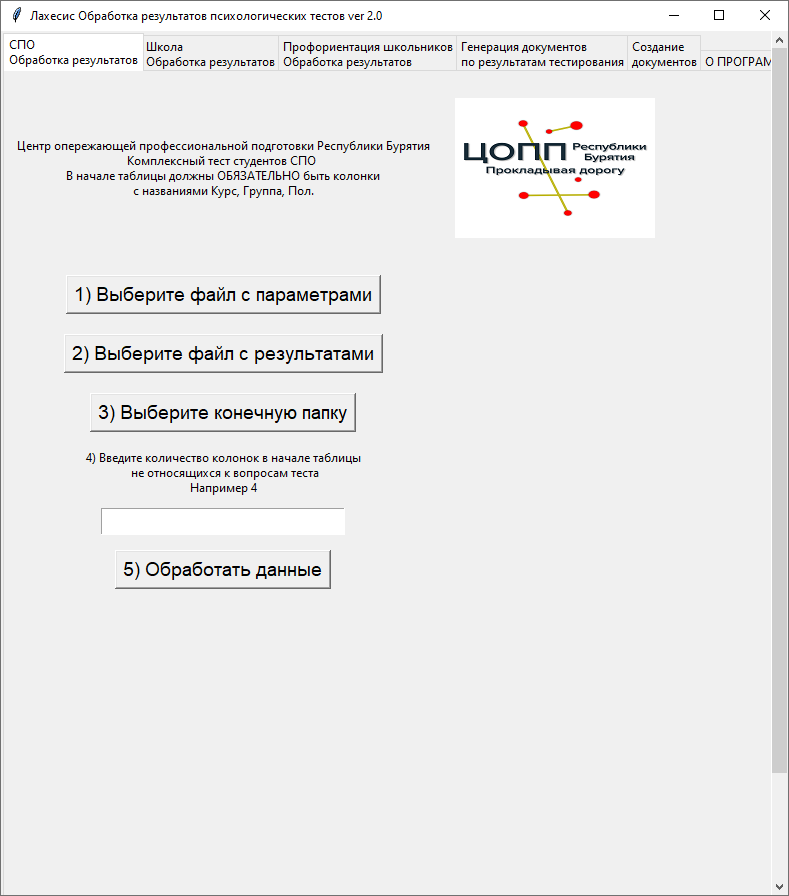
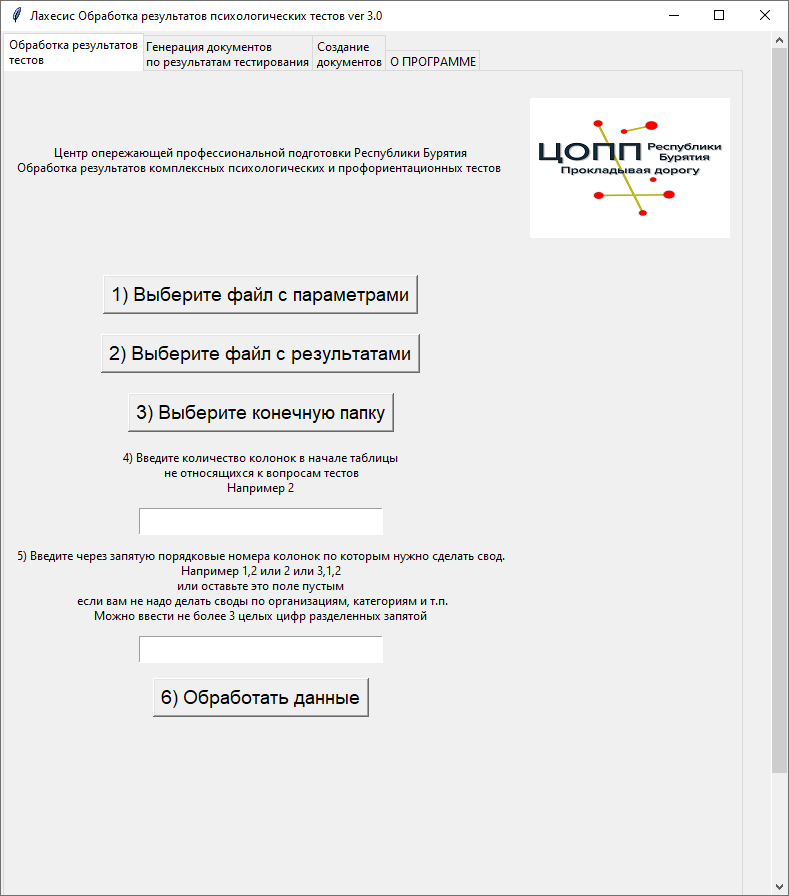
Лахесис 3.0

diff --git a/lachesis/lachesis.html b/lachesis/lachesis.html
@@ -25,7 +25,7 @@
           <h2>Назначение программы</h2>
             <p>Программа предназначена для автоматической обработки результатов психологических и профориентационных тестов, полученных с помощью Яндекс-форм (можно использовать и другие сервисы опросов) в формате Excel (xlsx).</p>
             <p> <a href="../files/lachesis/Презентация о программе.pptx" download target="_blank" >Презентация о программе</a></p>
-            <p> <a href="../files/lachesis/Реализованные тесты.docx" download target="_blank" >Список реализованных тестов</a></p>
+            <p> <a href="../files/lachesis/Реализованные тесты.xlsx" download target="_blank" >Список реализованных тестов</a></p>
 
              <p><b>Программа внесена в реестр отечественного программного обеспечения</b></p>
           <a href="https://fips.ru/EGD/7c4db338-ad0b-478c-b734-1a11d5660117" download target="_blank" >Ссылка на свидетельство Роспатента</a><br>
@@ -35,10 +35,10 @@
         </section>
         <section>
           <h2>Для кого эта программа?</h2>
-          <p>Эта программа может использоваться педагогами-психологами школ и СПО, специалистами по профориентационной работе.</p>
+          <p>Эта программа может использоваться педагогами-психологами школ, СПО, ВУЗ, специалистами по профориентационной работе, психологами иных организаций.</p>
           <h2>Что может программа</h2>
           <p><strong>Обрабатывать следующие психологические и профориентационные тесты:</strong></p>
-          <p><span style="text-decoration: underline;">Тесты на тревожность и депрессию для старшеклассников и студентов СПО:</span></p>
+          <p><span style="text-decoration: underline;">Тесты на тревожность и депрессию:</span></p>
           <ul>
           <li>Индекс общего самочувствия ВОЗ 1999</li>
           <li>Шкала тревожности Кондаша</li>
@@ -46,7 +46,7 @@
           <li>Шкала безнадежности Бека</li>
           <li>Шкала депрессии Цунга</li>
           </ul>
-          <p><span style="text-decoration: underline;">Тесты на девиантное поведение для старшеклассников и студентов СПО:</span></p>
+          <p><span style="text-decoration: underline;">Тесты на девиантное поведение:</span></p>
           <ul>
           <li>Склонность к девиантному поведению Э.В. Леус</li>
           <li>Шкала нарушенных потребностей. Остракизм (подростки, молодежь), Е.Э. Бойкина </li>
@@ -54,13 +54,32 @@
           <li>Выявление буллинг-структуры Е.Г. Норкина</li>
           </ul>
 
-          <p><span style="text-decoration: underline;">Тесты на лидерство и эмоциональный интеллект&nbsp;для старшеклассников и студентов СПО:</span></p>
+          <p><span style="text-decoration: underline;">Тесты на профессиональное и эмоциональное выгорание:</span></p>
+          <ul>
+          <li>Профессиональное выгорание педагогов методика Н. Е. Водопьяновой на основе модели К. Маслач и С. Джексон;</li>
+          <li>Диагностика уровня эмоционального выгорания В.В.Бойко (в модиф. Е.Ильина);</li>
+          <li>Диагностика уровня эмоционального выгорания В.В.Бойко;</li>
+          <li>Опросник психологического выгорания А.А. Рукавишников;</li>
+          <li>Опросник профессионального выгорания Маслач, MBI;</li>
+          <li>Оценка профессионального выгорания (BAT) краткая версия адаптация А.Д. Демкин;</li>
+          <li>Экспресс-оценка выгорания (В. Каппони, Т. Новак)</li>
+          </ul>
+
+          <p><span style="text-decoration: underline;">Тесты на адаптацию:</span></p>
+          <ul>
+          <li><span>Опросник Самочувствие, Активность, Настроение В.А. Доскин М.П. Мирошников;</span></li>
+          <li><span>Методика диагностики самооценки психических состояний Г. Айзенка;</span></li>
+          <li><span>Шкала социально-психологической адаптированности (К.Роджерс, Р.Даймонд). Адаптация Т. В. Снегиревой;</span></li>
+          <li><span>Экспресс-диагностика уровня адаптации первокурсников О.А. Гончарова;</span></li>
+          </ul>
+
+          <p><span style="text-decoration: underline;">Тесты на лидерство и эмоциональный интеллект:</span></p>
           <ul>
           <li><span>Эмоциональный интеллект Д.В. Люсин</span></li>
           <li><span>Уровень самооценки С.В. Ковалев</span></li>
-          <li><span>Коммуникативные и организаторские склонности&raquo; В.В. Синявский, В.А. Федорошин КОС-1</span></li>
+          <li><span>Коммуникативные и организаторские склонности В.В. Синявский, В.А. Федорошин КОС-1</span></li>
           </ul>
-          <p><span style="text-decoration: underline;">Профориентационные тесты для старшеклассников:</span></p>
+          <p><span style="text-decoration: underline;">Профориентационные тесты:</span></p>
           <ul>
           <li>Карта интересов Голомшток в редакции А.А. Азбель (144 вопроса,24 сферы).</li>
           <li>Профессиональная идентичность А.А. Азбель.</li>
@@ -78,27 +97,24 @@
           <h2>Преимущества</h2>
           <ul>
           <li>Бесплатно. Все что вам нужно это аккаунт на Яндекс почте.</li>
-          <li>Простота. Самое трудоемкое это сделать Яндекс Форму, после чего вам останется скачать результаты в виде таблицы Excel(xlsx) и обработать результаты одной кнопкой.</li>
-          <li>Стабильность. Яндекс Формы работают на серверах Яндекса, а это значит, что они будут работать практически всегда.</li>
-          <li>Нет трат на техническое сопровождение т.е. трат на хостинги, доменные имена, разработку и обработку тестов. Все что нужно это доступ в интернет у тестируемых.</li>
+          <li>Простота. Самое трудоемкое это сделать Яндекс Форму с выбранными тестами.</li>
           <li>Без проблем работает на мобильных телефонах. Не нужно думать, где взять компьютеры для тестирования.</li>
           <li>Массовость. Можно проводить одновременные тестирования для большого количества человек.</li>
           <li>Организовать, провести и обработать результаты теста может один человек. При этом от него не будет требоваться каких-то специальных знаний.</li>
-          <li>Не нужно заниматься предварительной регистрацией. Чтобы пройти тест не нужно нигде регистрироваться. Пользователь получил ссылку на тест, прошел тест на этом его взаимодействие с Яндекс Формами заканчивается.</li>
-          <li>Простота организации тестирования. Вы можете сделать 10 копий созданного теста и разослать 10 ссылок на эти тесты для разных школ, техникумов после чего получить 10 таблиц с результатами для каждой школы, техникума. Не нужно будет объяснять каждому тестируемому куда заходить и что выбирать, нужно будет просто нажать на ссылку и пройти тест.</li>
-          <li>Можно организовать тестирование без передачи персональных данных.</li>
+          <li>Чтобы пройти тест, не нужно нигде регистрироваться. Человек получил ссылку на тест после чего прошел тест.</li>
+          <li>Можно провести без передачи персональных данных.</li>
           <li>Автоматическое создание на бланках вашей организации документов с результатами тестирования.</li>
-          <li>Ранжирование результатов, тестируемых по степени выраженности склонностей, состояний.</li>
-          <li>Групповая статистика в разрезе курсов, групп, номеров классов, классов, полов.</li>
+          <li>Ранжирование результатов, тестируемых по степени выраженности склонностей.</li>
+          <li>Групповая статистика в разрезе выбранных категорий (до 3 категорий).</li>
           <li>Программа работает в отечественных ОС.</li>
           <li>Программа внесена в реестр отечественного ПО.</li>
 </ul>
           <h2>Возможности</h2>
             <ul>
               <li><a href="descr_feature_lachesis.html#all_result">Результаты каждого тестируемого с отображением численного показателя и уровня шкалы соответствующего теста.</a> </li>
-              <li><a href="descr_feature_lachesis.html#alert_value">Создание списка с тестируемыми у которых было найдено хотя бы одно тяжелое состояние (при тестировании на тревожность и депрессию).</a></li>
-              <li><a href="descr_feature_lachesis.html#risk_value">Создание списка с тестируемыми у которых было найдено минимум 2 предтяжелых состояния (при тестировании на тревожность и депрессию).</a></li>
-              <li><a href="descr_feature_lachesis.html#generate_svod">Подсчет количества прошедших тестирование по группам, номерам классов.</a></li>
+              <li><a href="descr_feature_lachesis.html#alert_value">Создание списка с тестируемыми у которых было найдено хотя бы одно тяжелое состояние (при тестировании на тревожность и депрессию, адаптацию, психологическое состояние, остракизм).</a></li>
+              <li><a href="descr_feature_lachesis.html#risk_value">Создание списка с тестируемыми у которых было найдено минимум 2 предтяжелых состояния (при тестировании на тревожность и депрессию, адаптацию, психологическое состояние, остракизм).</a></li>
+              <li><a href="descr_feature_lachesis.html#generate_svod">Подсчет количества прошедших тестирование по выбранным категориям (до 3).</a></li>
               <li><a href="descr_feature_lachesis.html#test_result">Подробные результаты каждого теста по отдельности с указанием результатов субшкал (при наличии).</a></li>
               <li><a href="descr_feature_lachesis.html#answer_test">Создание списка с ответами тестируемых на каждый тест для проверки правильности подсчета программой результатов.</a></li>
 
@@ -110,10 +126,10 @@
 
 
 
-              <li><a href="descr_feature_lachesis.html#calc_average_base">Подсчет среднего значения показателя и уровня шкалы теста в разрезе группы, класса, курса, номера класса.</a></li>
-              <li><a href="descr_feature_lachesis.html#calc_average_adv">Подсчет среднего значения показателя и уровня шкалы теста в разрезе группы, класса, курса, номера класса по полам.</a></li>
-              <li><a href="descr_feature_lachesis.html#calc_count_base">Подсчет количества тестируемых по уровням шкалы теста в разрезе группы, класса, курса, номера класса.</a></li>
-              <li><a href="descr_feature_lachesis.html#calc_count_adv">Подсчет количества тестируемых по уровням шкалы теста в разрезе группы, класса, курса, номера класса по полам.</a></li>
+              <li><a href="descr_feature_lachesis.html#calc_average_base">Подсчет среднего значения показателя и уровня шкалы теста в разрезе выбранных категорий(до 3).</a></li>
+              <li><a href="descr_feature_lachesis.html#calc_average_adv">Подсчет среднего значения показателя и уровня шкалы теста в разрезе выбранных категорий(до 3).</a></li>
+              <li><a href="descr_feature_lachesis.html#calc_count_base">Подсчет количества тестируемых по уровням шкалы теста в разрезе выбранных категорий(до 3).</a></li>
+              <li><a href="descr_feature_lachesis.html#calc_count_adv">Подсчет количества тестируемых по уровням шкалы теста в разрезе выбранных категорий(до 3).</a></li>
             </ul>
         </section>
         <section>
@@ -133,15 +149,12 @@
             <p>4) При необходимости регулярного тестирования производится копирование формы (при этом новая форма создается без старых ответов) и шаги 2,3 повторяются. </p>
             <H3>Опросная форма должна соответствовать нескольким правилам.</H3>
             <p><strong>Правило 1.</strong></p>
-            <p>При тестировании студентов СПО в начале формы обязательно должны быть колонки с названиями: <strong>Курс,Группа,Пол.</strong></p>
-            <p>При тестировании школьников старших классов в начале формы обязательно должны быть колонки с названиями: <strong>Номер класса, Буква класса, Пол.</strong></p>
+            <p>Анкетная часть должна находится в начале формы.</p>
+            <p>Анкетная часть должны быть только одна.</p>
+            <p>Анкетная часть &mdash; это вопросы, определяющие принадлежность тестируемого той или иной категории вида Муниципалитет, Группа, Класс, Курс, Специальность, Отдел, Пол, ФИО и т.п.</p>
             <p><strong>Правило 2.</strong></p>
-            <p>Вы можете проводить тестирование как с вводом ФИО тестируемого, так и анонимное тестирование.</p>
-            <p>Для анонимного тестирования вы можете не использовать идентифицирующий вопрос или использовать вопрос с типом <em>Целое Число</em> (для исключения возможности ввода нецензурного текста) чтобы тестируемый мог впоследствии найти свой результат.</p>
-            <p><strong>Правило 3.</strong></p>
-            <p>Вопросы относящиеся к одному тесту должны идти подряд.</p>
-            <p>Количество, текст вопросов и ответов должно совпадать с эталоном (указанным в папке Материалы для внедрения) т.е. в тесте Шкала безнадежности Бека должно быть обязательно 20 вопросов и т.д.</p>
-            <p>&nbsp;</p>
+          <p>Вопросы, относящиеся к одному тесту, должны идти подряд. Если вы сделали комплексный тест, состоящий из нескольких тестов, то между вопросами тестов не должно быть других вопросов.</p>
+          <p>Количество, текст вопросов и ответов должно совпадать с указанными в папке <strong>Материалы для внедрения</strong>-<strong>Используемые тесты </strong>(эта папка находится в архиве вместе с программой. Также вы можете ее скачать с сайта itdarhan.ru) т.е. в тесте Шкала безнадежности Бека должно быть обязательно 20 вопросов и т.д.</p>
         </section>
         <section>
           <h2>Интерфейс пользователя</h2>

diff --git a/lachesis/descr_feature_lachesis.html b/lachesis/descr_feature_lachesis.html
@@ -26,20 +26,51 @@
           <img src="../images/lachesis/all_result.png" style="width:900px;"/>
         </section>
       <section id="alert_value">
-          <h3>Список тестируемых чьи результаты (в тестах тревожности, депрессии) требуют особого внимания</h3>
-         <p>В список попадают все у кого при прохождении следующих тестов: Шкала тревожности Кондаша, Шкала депрессии Бека, Шкала безнадежности Бека, Шкала депрессии Цунга<br>
-         выявлено минимум <strong>одно</strong> из следующих состояний - <strong>тяжелая депрессия, безнадежность тяжёлая, Очень высокий уровень тревожности, истинное депрессивное состояние.</strong> </p>
+          <h3>Список тестируемых чьи результаты (в тестах тревожности, депрессии, адаптации, остракизма, выгорания, психоэмоционального состояния) требуют особого внимания</h3>
+         <p>В список попадают все у кого при прохождении следующих тестов: <p>Профессиональное выгорание педагогов Водопьянова, Эмоциональное выгорание Бойко Ильин, Выгорание Каппони Новак, Профессиональное выгорание Маслач Водопьянова, Эмоциональное выгорание Бойко, BAT краткая версия Демкин, Опросник психологического выгорания Рукавишников, Экспресс-диагностика адаптации первокурсников Гончарова, Самооценка психических состояний Айзенк, Социально-психологическая адаптированность Роджерс Даймонд Снегирева, САН Доскин Мирошников, Индекс общего самочувствия ВОЗ 1999, Шкала тревожности Кондаша Школьники, Шкала тревожности Кондаша Студенты, Шкала депрессии Бека, Шкала безнадежности Бека, Шкала депрессии Цунга, ШНПО ПМ Бойкина, Шкала субъективного остракизма Бойкина, Склонность к девиантному поведению Леус</p><br>
+         выявлено минимум <strong>одно</strong> из следующих состояний -<ul>
+        <li>высокий уровень выгорания</li>
+        <li>имеется выгорание</li>
+        <li>критический уровень выгорания</li>
+        <li>крайне высокий уровень</li>
+        <li>250-299</li>
+        <li>300 и более</li>
+        <li>очень высокий уровень</li>
+        <li>низкий уровень адаптации</li>
+        <li>выраженная социально-психологическая дезадаптация</li>
+        <li>очень высокий уровень тревожности</li>
+        <li>тяжелая депрессия</li>
+        <li>безнадежность тяжёлая</li>
+        <li>истинное депрессивное состояние</li>
+</ul>  </p>
           <img src="../images/lachesis/alert_value.png" style="width:900px;"/>
         </section>
       <section id="risk_value">
-        <h3>Список тестируемых чьи результаты (в тестах тревожности, депрессии) находятся в зоне риска</h3>
-         <p>В список попадают все у кого при прохождении следующих тестов: Шкала тревожности Кондаша, Шкала депрессии Бека, Шкала безнадежности Бека, Шкала депрессии Цунга<br>
-         выявлено минимум <strong>два</strong> из следующих состояний - <strong>умеренная депрессия, безнадежность умеренная, Высокий уровень тревожности, субдепрессивное состояние или маскированная депрессия.</strong> </p>
+        <h3>Список тестируемых чьи результаты (в тестах тревожности, депрессии, адаптации, остракизма, выгорания, психоэмоционального состояния) находятся в зоне риска</h3>
+         <p>В список попадают все у кого при прохождении следующих тестов: <p>Профессиональное выгорание педагогов Водопьянова, Эмоциональное выгорание Бойко Ильин, Выгорание Каппони Новак, Профессиональное выгорание Маслач Водопьянова, Эмоциональное выгорание Бойко, BAT краткая версия Демкин, Опросник психологического выгорания Рукавишников, Экспресс-диагностика адаптации первокурсников Гончарова, Самооценка психических состояний Айзенк, Социально-психологическая адаптированность Роджерс Даймонд Снегирева, САН Доскин Мирошников, Индекс общего самочувствия ВОЗ 1999, Шкала тревожности Кондаша Школьники, Шкала тревожности Кондаша Студенты, Шкала депрессии Бека, Шкала безнадежности Бека, Шкала депрессии Цунга, ШНПО ПМ Бойкина, Шкала субъективного остракизма Бойкина, Склонность к девиантному поведению Леус</p><br>
+         выявлено минимум <strong>два</strong> из следующих состояний -<ul>
+<li>пограничное выгорание</li>
+<li>симптомы выгорания</li>
+<li>начинающееся выгорание</li>
+<li>средний уровень выгорания</li>
+<li>высокий уровень</li>
+<li>доминирующий симптом</li>
+<li>не благоприятное состояние</li>
+<li>преобладает плохое настроение</li>
+<li>низкий уровень самооценки</li>
+<li>высокий уровень социального остракизма</li>
+<li>легкая степень социально-психологической дезадаптации</li>
+<li>0-19</li>
+<li>высокий уровень тревожности</li>
+<li>умеренная депрессия</li>
+<li>безнадежность умеренная</li>
+<li>субдепрессивное состояние или маскированная депрессия</li>
+</ul>  </p>
           <img src="../images/lachesis/risk_value.png" style="width:900px;"/>
         </section>
         <section id="generate_svod">
-          <h3>Подсчет количества прошедших тестирование по группам, номерам классов.</h3>
-         <p>Сколько человек из каждой группы или класса прошло тестирование</p>
+          <h3>Подсчет количества прошедших тестирование по выбранным категориям.</h3>
+         <p>Сколько человек из категории прошло тестирование</p>
           <img src="../images/lachesis/generate_svod.png" style="width:600px;"/>
         </section>
         <section id="test_result">
@@ -87,23 +118,23 @@
 
 
         <section id="calc_average_base">
-          <h3>Подсчет среднего значения показателя и уровня шкалы теста в разрезе группы, класса, курса, номера класса.</h3>
-            <p>Для каждой группы, класса высчитывается среднее арифметическое значение и в согласно ему присваивается соответствующий уровень шкалы теста.</p>
+          <h3>Подсчет среднего значения показателя и уровня шкалы теста в разрезе выбранных категорий(до 3).</h3>
+            <p>Для каждой выбранной категории высчитывается среднее арифметическое значение.</p>
             <img src="../images/lachesis/calc_average_base.png" style="width:900px;"/>
         </section>
         <section id="calc_average_adv">
-          <h3>Подсчет среднего значения показателя и уровня шкалы теста в разрезе группы, класса, курса, номера класса по полам</h3>
-            <p>Для каждой группы, класса в разрезе полов высчитывается среднее арифметическое значение и в согласно ему присваивается соответствующий уровень шкалы теста.</p>
+          <h3>Подсчет среднего значения показателя и уровня шкалы теста в разрезе выбранных категорий(до 3).</h3>
+            <p>Для каждой выбранной категории высчитывается среднее арифметическое значение шкал теста.</p>
             <img src="../images/lachesis/calc_average_adv.png" style="width:900px;"/>
         </section>
         <section id="calc_count_base">
-          <h3>Подсчет количества тестируемых по уровням шкалы теста в разрезе группы, класса, курса, номера класса</h3>
-            <p>Для каждой группы, класса подсчитывается сколько раз тот или иной уровень шкалы встречался в указанной группе, классе и процентное соотношение к общему</p>
+          <h3>Подсчет количества тестируемых по уровням шкалы теста в разрезе выбранных категорий(до 3).</h3>
+            <p>Для каждой выбранной категории подсчитывается сколько раз тот или иной уровень шкалы встречался в указанной категории и процентное соотношение к общему</p>
             <img src="../images/lachesis/calc_count_base.png" style="width:900px;"/>
         </section>
         <section id="calc_count_adv">
-          <h3>Подсчет количества тестируемых по уровням шкалы теста в разрезе группы, класса, курса, номера класса по полам</h3>
-            <p>Для каждой группы, класса в разрезе полов подсчитывается сколько раз тот или иной уровень шкалы встречался в указанной группе, классе и процентное соотношение к общему</p>
+          <h3>Подсчет количества тестируемых по уровням шкалы теста в разрезе выбранных категорий(до 3).</h3>
+            <p>Для каждой выбранной категории подсчитывается сколько раз тот или иной уровень шкалы встречался в указанной категории и процентное соотношение к общему</p>
             <img src="../images/lachesis/calc_count_adv.png" style="width:900px;"/>
         </section>
       </article>

diff --git a/index.html b/index.html
@@ -28,6 +28,10 @@
           <p>Приветствую, меня зовут Будаев Олег, я работаю в Центре опережающей профессиональной подготовки Республики Бурятия и занимаюсь прикладной автоматизацией рутинных задач низового уровня. </p>
           <p>На этом сайте будут выкладываться мои разработки. Все программы представленные на этом сайте, <b>распространяются свободно и бесплатно</b>.</p>
           <h2>Новости</h2>
+          <p><strong>Доступна для скачивания программа Лахесис версия 3.0</strong><p>Убрана привязка к обязательным колонкам Курс, Группа, Номер класса, Буква класса, Пол.<br />Теперь в опросных формах можно использовать любые анкетные колонки (кроме теста на тревожность Кондаша).<br />Удалены вкладки для обработки тестов СПО и школ, теперь обработка происходит в одной вкладке.<br />Для создания сводов с результатами в разрезе можно указывать до 3 колонок (например Муниципалитет, Школа, Класс; Организация, Отдел; Техникум, Курс, Группа и т.п.).</p>
+          <p>Добавлено 6 тестов на профессиональное и эмоциональное выгорание для взрослых:<br />Профессиональное выгорание педагогов методика Н. Е. Водопьяновой на основе модели К. Маслач и С. Джексон;<br />Диагностика уровня эмоционального выгорания В.В.Бойко (в модиф. Е.Ильина);<br />Диагностика уровня эмоционального выгорания В.В.Бойко ;<br />Опросник психологического выгорания А.А. Рукавишников;<br />Опросник профессионального выгорания Маслач, MBI;<br />Оценка профессионального выгорания (BAT) краткая версия адаптация А.Д. Демкин;<br />Экспресс-оценка выгорания (В. Каппони, Т. Новак).</p>
+          <p>Добавлено 4 теста на адаптацию:<br />Опросник Самочувствие, Активность, Настроение В.А. Доскин М.П. Мирошников;<br />Методика диагностики самооценки психических состояний Г. Айзенка;<br />Шкала социально-психологической адаптированности (К.Роджерс, Р.Даймонд). Адаптация Т. В. Снегиревой;<br />Экспресс-диагностика уровня адаптации первокурсников О.А. Гончарова;</p>
+          <p>Улучшена структура итоговых файлов по конкретным тестам.<br />Теперь в общем файле указывается сколько тестируемых из выбранных категорий прошли тестирование.</p>
           <p><strong>Доступна для скачивания программа Веста версия 1.58</strong> – Добавлена новая функция Свод в один файл (соединяет файлы Excel в один с сохранением по отдельным листам и сохранением форматирования,формул).<br>С помощью функций Суммирование отчетов и Извлечение данных теперь можно обрабатывать листы из одного файла.<br>Улучшена Функция Обработка списка. Теперь строки  с ошибками выделяются цветом, создается файл со списком ошибок в удобном формате и указанием строки, где найдена эта ошибка.</p>
           <p><strong>Доступна для скачивания программа Лахесис версия 2.2</strong> – Улучшен поиск ошибок в вариантах ответов, теперь указывается строка и колонка, где найдено несовпадение с эталонными вариантами.<br />Добавлена обработка следующих профориентационных тестов:<br />Характер и профессия Г.В. Резапкина;<br />Наемный труд, фриланс, предпринимательство А. Г. Грецов;<br />Профессиональные установки подростков А.Д. Андреева;<br />Направленность на вид инженерной деятельности О.Б. Годлиник;<br />Склонность к исполнительскому или творческому труду А.А. Азбель.<br />Добавлена обработка следующих тестов на остракизм и буллинг:<br />Шкала нарушенных потребностей. Остракизм(подростки, молодежь) Бойкина Е.Э.;<br />Шкала субъективного остракизма(подростки, молодежь) Бойкина Е.Э.;<br />Выявление буллинг-структуры Е.Г. Норкина;<br>
           <strong>Программа Лахесис внесена в реестр отечественного программного обеспечения - Реестровая запись №27936 от 06.05.2025</strong><br>
